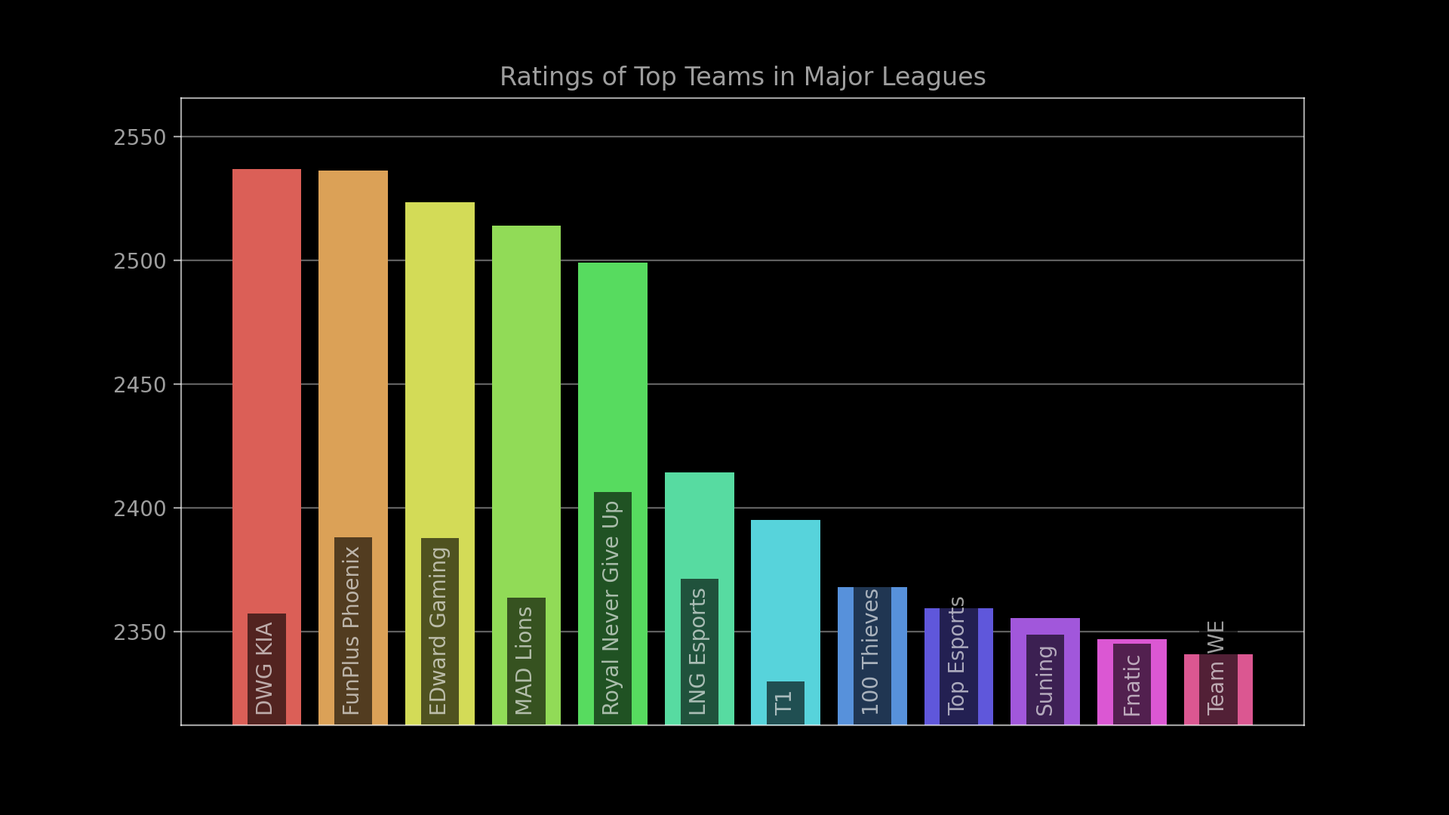
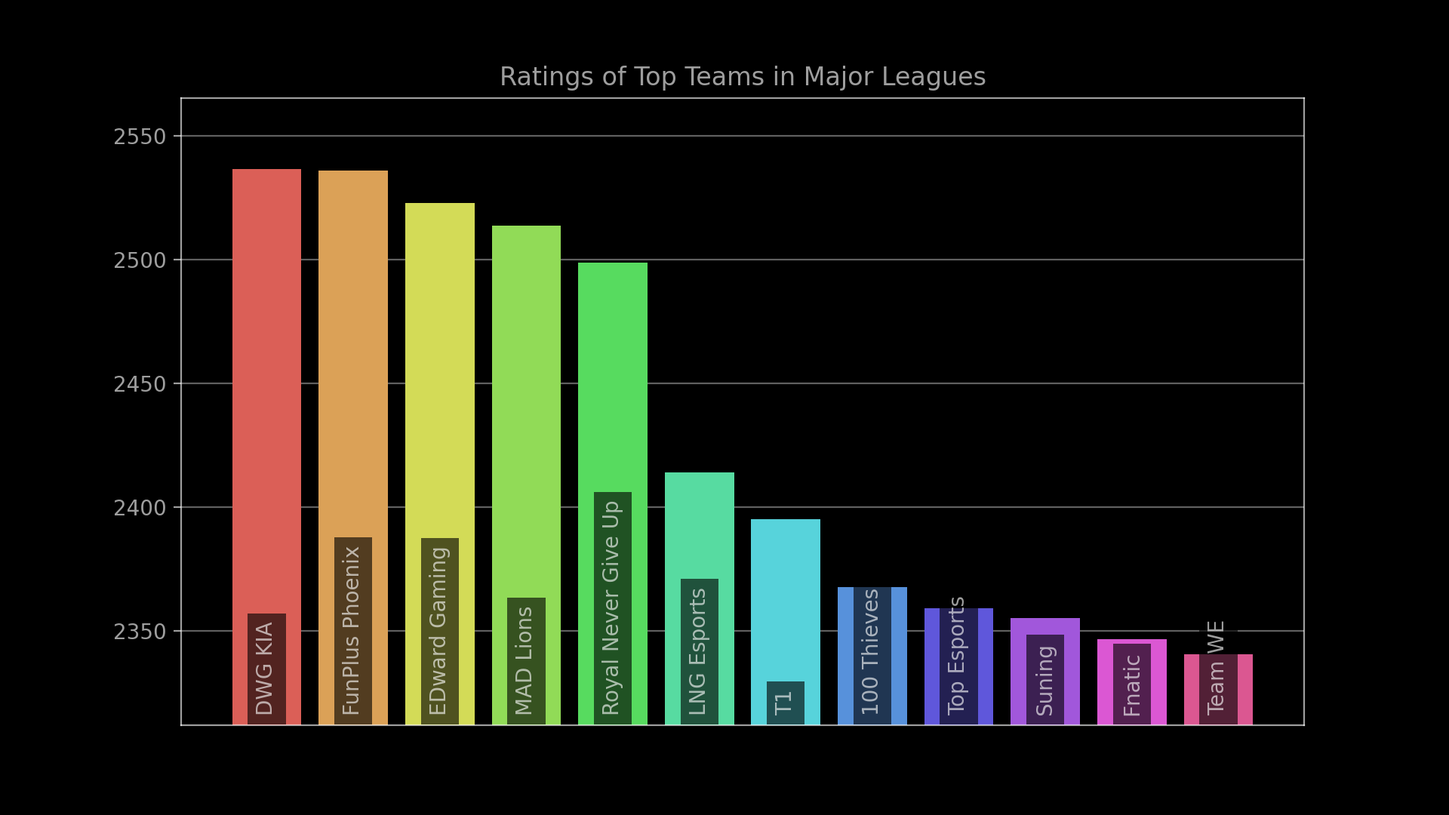
Update rating charts for 2021-09-15 20:00:00.

diff --git a/README.html b/README.html
@@ -75,46 +75,46 @@
             </tr>
             </thead>
             <tbody class="list">
-                <tr><td style="text-align: right">1</td><td class="name">DWG KIA</td><td class="league" style="text-align: center">LCK</td><td class="rating" style="text-align: center">2536.9</td></tr>
-            <tr><td style="text-align: right">2</td><td class="name">FunPlus Phoenix</td><td class="league" style="text-align: center">LPL</td><td class="rating" style="text-align: center">2536.3</td></tr>
-            <tr><td style="text-align: right">3</td><td class="name">EDward Gaming</td><td class="league" style="text-align: center">LPL</td><td class="rating" style="text-align: center">2523.2</td></tr>
+                <tr><td style="text-align: right">1</td><td class="name">DWG KIA</td><td class="league" style="text-align: center">LCK</td><td class="rating" style="text-align: center">2536.8</td></tr>
+            <tr><td style="text-align: right">2</td><td class="name">FunPlus Phoenix</td><td class="league" style="text-align: center">LPL</td><td class="rating" style="text-align: center">2536.2</td></tr>
+            <tr><td style="text-align: right">3</td><td class="name">EDward Gaming</td><td class="league" style="text-align: center">LPL</td><td class="rating" style="text-align: center">2523.1</td></tr>
             <tr><td style="text-align: right">4</td><td class="name">MAD Lions</td><td class="league" style="text-align: center">LEC</td><td class="rating" style="text-align: center">2513.9</td></tr>
-            <tr><td style="text-align: right">5</td><td class="name">PSG Talon</td><td class="league" style="text-align: center">PCS</td><td class="rating" style="text-align: center">2503.7</td></tr>
-            <tr><td style="text-align: right">6</td><td class="name">Royal Never Give Up</td><td class="league" style="text-align: center">LPL</td><td class="rating" style="text-align: center">2499.0</td></tr>
-            <tr><td style="text-align: right">7</td><td class="name">LNG Esports</td><td class="league" style="text-align: center">LPL</td><td class="rating" style="text-align: center">2414.1</td></tr>
-            <tr><td style="text-align: right">8</td><td class="name">Beyond Gaming</td><td class="league" style="text-align: center">PCS</td><td class="rating" style="text-align: center">2413.2</td></tr>
+            <tr><td style="text-align: right">5</td><td class="name">PSG Talon</td><td class="league" style="text-align: center">PCS</td><td class="rating" style="text-align: center">2503.6</td></tr>
+            <tr><td style="text-align: right">6</td><td class="name">Royal Never Give Up</td><td class="league" style="text-align: center">LPL</td><td class="rating" style="text-align: center">2498.8</td></tr>
+            <tr><td style="text-align: right">7</td><td class="name">LNG Esports</td><td class="league" style="text-align: center">LPL</td><td class="rating" style="text-align: center">2414.0</td></tr>
+            <tr><td style="text-align: right">8</td><td class="name">Beyond Gaming</td><td class="league" style="text-align: center">PCS</td><td class="rating" style="text-align: center">2413.1</td></tr>
             <tr><td style="text-align: right">9</td><td class="name">T1</td><td class="league" style="text-align: center">LCK</td><td class="rating" style="text-align: center">2395.1</td></tr>
             <tr><td style="text-align: right">10</td><td class="name">100 Thieves</td><td class="league" style="text-align: center">LCS</td><td class="rating" style="text-align: center">2367.7</td></tr>
-            <tr><td style="text-align: right">11</td><td class="name">Top Esports</td><td class="league" style="text-align: center">LPL</td><td class="rating" style="text-align: center">2359.4</td></tr>
-            <tr><td style="text-align: right">12</td><td class="name">Suning</td><td class="league" style="text-align: center">LPL</td><td class="rating" style="text-align: center">2355.4</td></tr>
-            <tr><td style="text-align: right">13</td><td class="name">Fnatic</td><td class="league" style="text-align: center">LEC</td><td class="rating" style="text-align: center">2346.8</td></tr>
-            <tr><td style="text-align: right">14</td><td class="name">Team WE</td><td class="league" style="text-align: center">LPL</td><td class="rating" style="text-align: center">2340.7</td></tr>
-            <tr><td style="text-align: right">15</td><td class="name">Hanwha Life Esports</td><td class="league" style="text-align: center">LCK</td><td class="rating" style="text-align: center">2333.0</td></tr>
-            <tr><td style="text-align: right">16</td><td class="name">Gen.G</td><td class="league" style="text-align: center">LCK</td><td class="rating" style="text-align: center">2330.1</td></tr>
-            <tr><td style="text-align: right">17</td><td class="name">Bilibili Gaming</td><td class="league" style="text-align: center">LPL</td><td class="rating" style="text-align: center">2319.5</td></tr>
-            <tr><td style="text-align: right">18</td><td class="name">Cloud9</td><td class="league" style="text-align: center">LCS</td><td class="rating" style="text-align: center">2319.2</td></tr>
-            <tr><td style="text-align: right">19</td><td class="name">G2 Esports</td><td class="league" style="text-align: center">LEC</td><td class="rating" style="text-align: center">2313.9</td></tr>
-            <tr><td style="text-align: right">20</td><td class="name">Rare Atom</td><td class="league" style="text-align: center">LPL</td><td class="rating" style="text-align: center">2313.6</td></tr>
+            <tr><td style="text-align: right">11</td><td class="name">Top Esports</td><td class="league" style="text-align: center">LPL</td><td class="rating" style="text-align: center">2359.3</td></tr>
+            <tr><td style="text-align: right">12</td><td class="name">Suning</td><td class="league" style="text-align: center">LPL</td><td class="rating" style="text-align: center">2355.3</td></tr>
+            <tr><td style="text-align: right">13</td><td class="name">Fnatic</td><td class="league" style="text-align: center">LEC</td><td class="rating" style="text-align: center">2346.7</td></tr>
+            <tr><td style="text-align: right">14</td><td class="name">Team WE</td><td class="league" style="text-align: center">LPL</td><td class="rating" style="text-align: center">2340.6</td></tr>
+            <tr><td style="text-align: right">15</td><td class="name">Hanwha Life Esports</td><td class="league" style="text-align: center">LCK</td><td class="rating" style="text-align: center">2332.9</td></tr>
+            <tr><td style="text-align: right">16</td><td class="name">Gen.G</td><td class="league" style="text-align: center">LCK</td><td class="rating" style="text-align: center">2330.0</td></tr>
+            <tr><td style="text-align: right">17</td><td class="name">Bilibili Gaming</td><td class="league" style="text-align: center">LPL</td><td class="rating" style="text-align: center">2319.4</td></tr>
+            <tr><td style="text-align: right">18</td><td class="name">Cloud9</td><td class="league" style="text-align: center">LCS</td><td class="rating" style="text-align: center">2319.1</td></tr>
+            <tr><td style="text-align: right">19</td><td class="name">G2 Esports</td><td class="league" style="text-align: center">LEC</td><td class="rating" style="text-align: center">2313.8</td></tr>
+            <tr><td style="text-align: right">20</td><td class="name">Rare Atom</td><td class="league" style="text-align: center">LPL</td><td class="rating" style="text-align: center">2313.5</td></tr>
             <tr><td style="text-align: right">21</td><td class="name">Unicorns Of Love.CIS</td><td class="league" style="text-align: center">LCL</td><td class="rating" style="text-align: center">2308.2</td></tr>
-            <tr><td style="text-align: right">22</td><td class="name">Afreeca Freecs</td><td class="league" style="text-align: center">LCK</td><td class="rating" style="text-align: center">2306.5</td></tr>
+            <tr><td style="text-align: right">22</td><td class="name">Afreeca Freecs</td><td class="league" style="text-align: center">LCK</td><td class="rating" style="text-align: center">2306.4</td></tr>
             <tr><td style="text-align: right">23</td><td class="name">CrowCrowd</td><td class="league" style="text-align: center">LCL</td><td class="rating" style="text-align: center">2303.6</td></tr>
             <tr><td style="text-align: right">24</td><td class="name">Team Liquid</td><td class="league" style="text-align: center">LCS</td><td class="rating" style="text-align: center">2302.1</td></tr>
-            <tr><td style="text-align: right">25</td><td class="name">TSM</td><td class="league" style="text-align: center">LCS</td><td class="rating" style="text-align: center">2290.5</td></tr>
-            <tr><td style="text-align: right">26</td><td class="name">Rogue (European Team)</td><td class="league" style="text-align: center">LEC</td><td class="rating" style="text-align: center">2288.2</td></tr>
-            <tr><td style="text-align: right">27</td><td class="name">Misfits Gaming</td><td class="league" style="text-align: center">LEC</td><td class="rating" style="text-align: center">2283.4</td></tr>
-            <tr><td style="text-align: right">28</td><td class="name">Nongshim RedForce</td><td class="league" style="text-align: center">LCK</td><td class="rating" style="text-align: center">2281.5</td></tr>
+            <tr><td style="text-align: right">25</td><td class="name">TSM</td><td class="league" style="text-align: center">LCS</td><td class="rating" style="text-align: center">2290.4</td></tr>
+            <tr><td style="text-align: right">26</td><td class="name">Rogue (European Team)</td><td class="league" style="text-align: center">LEC</td><td class="rating" style="text-align: center">2288.1</td></tr>
+            <tr><td style="text-align: right">27</td><td class="name">Misfits Gaming</td><td class="league" style="text-align: center">LEC</td><td class="rating" style="text-align: center">2283.3</td></tr>
+            <tr><td style="text-align: right">28</td><td class="name">Nongshim RedForce</td><td class="league" style="text-align: center">LCK</td><td class="rating" style="text-align: center">2281.4</td></tr>
             <tr><td style="text-align: right">29</td><td class="name">Evil Geniuses.NA</td><td class="league" style="text-align: center">LCS</td><td class="rating" style="text-align: center">2263.6</td></tr>
             <tr><td style="text-align: right">30</td><td class="name">Galatasaray Esports</td><td class="league" style="text-align: center">TCL</td><td class="rating" style="text-align: center">2262.0</td></tr>
-            <tr><td style="text-align: right">31</td><td class="name">Liiv SANDBOX</td><td class="league" style="text-align: center">LCK</td><td class="rating" style="text-align: center">2252.4</td></tr>
-            <tr><td style="text-align: right">32</td><td class="name">PEACE (Oceanic Team)</td><td class="league" style="text-align: center">LCO</td><td class="rating" style="text-align: center">2249.8</td></tr>
+            <tr><td style="text-align: right">31</td><td class="name">Liiv SANDBOX</td><td class="league" style="text-align: center">LCK</td><td class="rating" style="text-align: center">2252.3</td></tr>
+            <tr><td style="text-align: right">32</td><td class="name">PEACE (Oceanic Team)</td><td class="league" style="text-align: center">LCO</td><td class="rating" style="text-align: center">2249.7</td></tr>
             <tr><td style="text-align: right">33</td><td class="name">KT Rolster</td><td class="league" style="text-align: center">LCK</td><td class="rating" style="text-align: center">2248.1</td></tr>
-            <tr><td style="text-align: right">34</td><td class="name">JD Gaming</td><td class="league" style="text-align: center">LPL</td><td class="rating" style="text-align: center">2247.9</td></tr>
-            <tr><td style="text-align: right">35</td><td class="name">Oh My God</td><td class="league" style="text-align: center">LPL</td><td class="rating" style="text-align: center">2225.6</td></tr>
+            <tr><td style="text-align: right">34</td><td class="name">JD Gaming</td><td class="league" style="text-align: center">LPL</td><td class="rating" style="text-align: center">2247.8</td></tr>
+            <tr><td style="text-align: right">35</td><td class="name">Oh My God</td><td class="league" style="text-align: center">LPL</td><td class="rating" style="text-align: center">2225.4</td></tr>
             <tr><td style="text-align: right">36</td><td class="name">Pentanet.GG</td><td class="league" style="text-align: center">LCO</td><td class="rating" style="text-align: center">2224.6</td></tr>
-            <tr><td style="text-align: right">37</td><td class="name">Fredit BRION</td><td class="league" style="text-align: center">LCK</td><td class="rating" style="text-align: center">2214.0</td></tr>
-            <tr><td style="text-align: right">38</td><td class="name">Invictus Gaming</td><td class="league" style="text-align: center">LPL</td><td class="rating" style="text-align: center">2213.7</td></tr>
-            <tr><td style="text-align: right">39</td><td class="name">LGD Gaming</td><td class="league" style="text-align: center">LPL</td><td class="rating" style="text-align: center">2200.8</td></tr>
-            <tr><td style="text-align: right">40</td><td class="name">Rogue Warriors</td><td class="league" style="text-align: center">LPL</td><td class="rating" style="text-align: center">2193.0</td></tr>
+            <tr><td style="text-align: right">37</td><td class="name">Fredit BRION</td><td class="league" style="text-align: center">LCK</td><td class="rating" style="text-align: center">2213.9</td></tr>
+            <tr><td style="text-align: right">38</td><td class="name">Invictus Gaming</td><td class="league" style="text-align: center">LPL</td><td class="rating" style="text-align: center">2213.6</td></tr>
+            <tr><td style="text-align: right">39</td><td class="name">LGD Gaming</td><td class="league" style="text-align: center">LPL</td><td class="rating" style="text-align: center">2200.7</td></tr>
+            <tr><td style="text-align: right">40</td><td class="name">Rogue Warriors</td><td class="league" style="text-align: center">LPL</td><td class="rating" style="text-align: center">2192.9</td></tr>
             <tr><td style="text-align: right">41</td><td class="name">One Breath Gaming</td><td class="league" style="text-align: center">LCL</td><td class="rating" style="text-align: center">2192.0</td></tr>
             <tr><td style="text-align: right">42</td><td class="name">Immortals</td><td class="league" style="text-align: center">LCS</td><td class="rating" style="text-align: center">2186.4</td></tr>
             <tr><td style="text-align: right">43</td><td class="name">DetonatioN FocusMe</td><td class="league" style="text-align: center">LJL</td><td class="rating" style="text-align: center">2180.9</td></tr>
@@ -122,22 +122,22 @@
             <tr><td style="text-align: right">45</td><td class="name">GAM Esports</td><td class="league" style="text-align: center">VCS</td><td class="rating" style="text-align: center">2169.9</td></tr>
             <tr><td style="text-align: right">46</td><td class="name">RED Canids</td><td class="league" style="text-align: center">CBLOL</td><td class="rating" style="text-align: center">2169.0</td></tr>
             <tr><td style="text-align: right">47</td><td class="name">paiN Gaming</td><td class="league" style="text-align: center">CBLOL</td><td class="rating" style="text-align: center">2157.7</td></tr>
-            <tr><td style="text-align: right">48</td><td class="name">Excel Esports</td><td class="league" style="text-align: center">LEC</td><td class="rating" style="text-align: center">2151.8</td></tr>
-            <tr><td style="text-align: right">49</td><td class="name">Dire Wolves</td><td class="league" style="text-align: center">LCO</td><td class="rating" style="text-align: center">2140.4</td></tr>
-            <tr><td style="text-align: right">50</td><td class="name">Astralis</td><td class="league" style="text-align: center">LEC</td><td class="rating" style="text-align: center">2140.0</td></tr>
-            <tr><td style="text-align: right">51</td><td class="name">Ultra Prime</td><td class="league" style="text-align: center">LPL</td><td class="rating" style="text-align: center">2137.5</td></tr>
+            <tr><td style="text-align: right">48</td><td class="name">Excel Esports</td><td class="league" style="text-align: center">LEC</td><td class="rating" style="text-align: center">2151.7</td></tr>
+            <tr><td style="text-align: right">49</td><td class="name">Dire Wolves</td><td class="league" style="text-align: center">LCO</td><td class="rating" style="text-align: center">2140.3</td></tr>
+            <tr><td style="text-align: right">50</td><td class="name">Astralis</td><td class="league" style="text-align: center">LEC</td><td class="rating" style="text-align: center">2139.9</td></tr>
+            <tr><td style="text-align: right">51</td><td class="name">Ultra Prime</td><td class="league" style="text-align: center">LPL</td><td class="rating" style="text-align: center">2137.3</td></tr>
             <tr><td style="text-align: right">52</td><td class="name">Machi Esports</td><td class="league" style="text-align: center">PCS</td><td class="rating" style="text-align: center">2127.8</td></tr>
-            <tr><td style="text-align: right">53</td><td class="name">Dignitas</td><td class="league" style="text-align: center">LCS</td><td class="rating" style="text-align: center">2118.6</td></tr>
+            <tr><td style="text-align: right">53</td><td class="name">Dignitas</td><td class="league" style="text-align: center">LCS</td><td class="rating" style="text-align: center">2118.5</td></tr>
             <tr><td style="text-align: right">54</td><td class="name">Infinity Esports (Latin American Team)</td><td class="league" style="text-align: center">LLA</td><td class="rating" style="text-align: center">2113.8</td></tr>
             <tr><td style="text-align: right">55</td><td class="name">Rensga Esports</td><td class="league" style="text-align: center">CBLOL</td><td class="rating" style="text-align: center">2102.4</td></tr>
-            <tr><td style="text-align: right">56</td><td class="name">Chiefs Esports Club</td><td class="league" style="text-align: center">LCO</td><td class="rating" style="text-align: center">2101.3</td></tr>
+            <tr><td style="text-align: right">56</td><td class="name">Chiefs Esports Club</td><td class="league" style="text-align: center">LCO</td><td class="rating" style="text-align: center">2101.2</td></tr>
             <tr><td style="text-align: right">57</td><td class="name">SK Gaming</td><td class="league" style="text-align: center">LEC</td><td class="rating" style="text-align: center">2094.7</td></tr>
             <tr><td style="text-align: right">58</td><td class="name">ORDER</td><td class="league" style="text-align: center">LCO</td><td class="rating" style="text-align: center">2084.7</td></tr>
             <tr><td style="text-align: right">59</td><td class="name">DRX</td><td class="league" style="text-align: center">LCK</td><td class="rating" style="text-align: center">2082.8</td></tr>
             <tr><td style="text-align: right">60</td><td class="name">NASR eSports Turkey</td><td class="league" style="text-align: center">TCL</td><td class="rating" style="text-align: center">2081.8</td></tr>
             <tr><td style="text-align: right">61</td><td class="name">Golden Guardians</td><td class="league" style="text-align: center">LCS</td><td class="rating" style="text-align: center">2078.0</td></tr>
             <tr><td style="text-align: right">62</td><td class="name">J Team</td><td class="league" style="text-align: center">PCS</td><td class="rating" style="text-align: center">2074.6</td></tr>
-            <tr><td style="text-align: right">63</td><td class="name">ThunderTalk Gaming</td><td class="league" style="text-align: center">LPL</td><td class="rating" style="text-align: center">2071.6</td></tr>
+            <tr><td style="text-align: right">63</td><td class="name">ThunderTalk Gaming</td><td class="league" style="text-align: center">LPL</td><td class="rating" style="text-align: center">2071.5</td></tr>
             <tr><td style="text-align: right">64</td><td class="name">Vorax Liberty</td><td class="league" style="text-align: center">CBLOL</td><td class="rating" style="text-align: center">2057.5</td></tr>
             <tr><td style="text-align: right">65</td><td class="name">FlyQuest</td><td class="league" style="text-align: center">LCS</td><td class="rating" style="text-align: center">2043.1</td></tr>
             <tr><td style="text-align: right">66</td><td class="name">Estral Esports</td><td class="league" style="text-align: center">LLA</td><td class="rating" style="text-align: center">2037.0</td></tr>
@@ -145,52 +145,53 @@
             <tr><td style="text-align: right">68</td><td class="name">Istanbul Wildcats</td><td class="league" style="text-align: center">TCL</td><td class="rating" style="text-align: center">2026.2</td></tr>
             <tr><td style="text-align: right">69</td><td class="name">SuperMassive Blaze</td><td class="league" style="text-align: center">TCL</td><td class="rating" style="text-align: center">2024.5</td></tr>
             <tr><td style="text-align: right">70</td><td class="name">Galakticos</td><td class="league" style="text-align: center">TCL</td><td class="rating" style="text-align: center">2012.4</td></tr>
-            <tr><td style="text-align: right">71</td><td class="name">Counter Logic Gaming</td><td class="league" style="text-align: center">LCS</td><td class="rating" style="text-align: center">2005.7</td></tr>
+            <tr><td style="text-align: right">71</td><td class="name">Counter Logic Gaming</td><td class="league" style="text-align: center">LCS</td><td class="rating" style="text-align: center">2005.6</td></tr>
             <tr><td style="text-align: right">72</td><td class="name">Rascal Jester</td><td class="league" style="text-align: center">LJL</td><td class="rating" style="text-align: center">2003.8</td></tr>
             <tr><td style="text-align: right">73</td><td class="name">BOOM Esports</td><td class="league" style="text-align: center">PCS</td><td class="rating" style="text-align: center">2001.7</td></tr>
             <tr><td style="text-align: right">74</td><td class="name">Beşiktaş Esports</td><td class="league" style="text-align: center">TCL</td><td class="rating" style="text-align: center">2001.4</td></tr>
             <tr><td style="text-align: right">75</td><td class="name">Saigon Buffalo</td><td class="league" style="text-align: center">VCS</td><td class="rating" style="text-align: center">1994.1</td></tr>
-            <tr><td style="text-align: right">76</td><td class="name">1907 Fenerbahçe Esports</td><td class="league" style="text-align: center">TCL</td><td class="rating" style="text-align: center">1987.3</td></tr>
+            <tr><td style="text-align: right">76</td><td class="name">1907 Fenerbahçe Esports</td><td class="league" style="text-align: center">TCL</td><td class="rating" style="text-align: center">1987.2</td></tr>
             <tr><td style="text-align: right">77</td><td class="name">Dark Passage</td><td class="league" style="text-align: center">TCL</td><td class="rating" style="text-align: center">1986.9</td></tr>
             <tr><td style="text-align: right">78</td><td class="name">Flamengo Esports</td><td class="league" style="text-align: center">CBLOL</td><td class="rating" style="text-align: center">1977.4</td></tr>
             <tr><td style="text-align: right">79</td><td class="name">LOUD</td><td class="league" style="text-align: center">CBLOL</td><td class="rating" style="text-align: center">1947.4</td></tr>
-            <tr><td style="text-align: right">80</td><td class="name">Victory Five</td><td class="league" style="text-align: center">LPL</td><td class="rating" style="text-align: center">1944.6</td></tr>
-            <tr><td style="text-align: right">81</td><td class="name">XTEN Esports</td><td class="league" style="text-align: center">LLA</td><td class="rating" style="text-align: center">1944.2</td></tr>
+            <tr><td style="text-align: right">80</td><td class="name">Victory Five</td><td class="league" style="text-align: center">LPL</td><td class="rating" style="text-align: center">1944.5</td></tr>
+            <tr><td style="text-align: right">81</td><td class="name">XTEN Esports</td><td class="league" style="text-align: center">LLA</td><td class="rating" style="text-align: center">1943.9</td></tr>
             <tr><td style="text-align: right">82</td><td class="name">AXIZ</td><td class="league" style="text-align: center">LJL</td><td class="rating" style="text-align: center">1936.5</td></tr>
-            <tr><td style="text-align: right">83</td><td class="name">Black Star Gaming</td><td class="league" style="text-align: center">LCL</td><td class="rating" style="text-align: center">1933.3</td></tr>
+            <tr><td style="text-align: right">83</td><td class="name">Black Star Gaming</td><td class="league" style="text-align: center">LCL</td><td class="rating" style="text-align: center">1933.2</td></tr>
             <tr><td style="text-align: right">84</td><td class="name">5 Ronin</td><td class="league" style="text-align: center">TCL</td><td class="rating" style="text-align: center">1932.7</td></tr>
             <tr><td style="text-align: right">85</td><td class="name">Rainbow7</td><td class="league" style="text-align: center">LLA</td><td class="rating" style="text-align: center">1927.6</td></tr>
-            <tr><td style="text-align: right">86</td><td class="name">Furious Gaming</td><td class="league" style="text-align: center">LLA</td><td class="rating" style="text-align: center">1921.0</td></tr>
+            <tr><td style="text-align: right">86</td><td class="name">Furious Gaming</td><td class="league" style="text-align: center">LLA</td><td class="rating" style="text-align: center">1920.5</td></tr>
             <tr><td style="text-align: right">87</td><td class="name">CERBERUS Esports (Vietnamese Team)</td><td class="league" style="text-align: center">VCS</td><td class="rating" style="text-align: center">1909.5</td></tr>
             <tr><td style="text-align: right">88</td><td class="name">Team Secret (Vietnamese Team)</td><td class="league" style="text-align: center">VCS</td><td class="rating" style="text-align: center">1896.4</td></tr>
             <tr><td style="text-align: right">89</td><td class="name">Legacy Esports</td><td class="league" style="text-align: center">LCO</td><td class="rating" style="text-align: center">1891.1</td></tr>
-            <tr><td style="text-align: right">90</td><td class="name">Isurus</td><td class="league" style="text-align: center">LLA</td><td class="rating" style="text-align: center">1891.0</td></tr>
+            <tr><td style="text-align: right">90</td><td class="name">Isurus</td><td class="league" style="text-align: center">LLA</td><td class="rating" style="text-align: center">1890.9</td></tr>
             <tr><td style="text-align: right">91</td><td class="name">KaBuM! e-Sports</td><td class="league" style="text-align: center">CBLOL</td><td class="rating" style="text-align: center">1890.3</td></tr>
             <tr><td style="text-align: right">92</td><td class="name">Vega Squadron</td><td class="league" style="text-align: center">LCL</td><td class="rating" style="text-align: center">1882.6</td></tr>
             <tr><td style="text-align: right">93</td><td class="name">Hong Kong Attitude</td><td class="league" style="text-align: center">PCS</td><td class="rating" style="text-align: center">1881.7</td></tr>
             <tr><td style="text-align: right">94</td><td class="name">V3 Esports</td><td class="league" style="text-align: center">LJL</td><td class="rating" style="text-align: center">1857.0</td></tr>
-            <tr><td style="text-align: right">95</td><td class="name">Gravitas</td><td class="league" style="text-align: center">LCO</td><td class="rating" style="text-align: center">1853.7</td></tr>
+            <tr><td style="text-align: right">95</td><td class="name">Gravitas</td><td class="league" style="text-align: center">LCO</td><td class="rating" style="text-align: center">1853.6</td></tr>
             <tr><td style="text-align: right">96</td><td class="name">Dragon Army</td><td class="league" style="text-align: center">LCL</td><td class="rating" style="text-align: center">1835.4</td></tr>
-            <tr><td style="text-align: right">97</td><td class="name">Luxury Esports</td><td class="league" style="text-align: center">VCS</td><td class="rating" style="text-align: center">1833.7</td></tr>
+            <tr><td style="text-align: right">97</td><td class="name">Luxury Esports</td><td class="league" style="text-align: center">VCS</td><td class="rating" style="text-align: center">1833.6</td></tr>
             <tr><td style="text-align: right">98</td><td class="name">Netshoes Miners</td><td class="league" style="text-align: center">CBLOL</td><td class="rating" style="text-align: center">1829.0</td></tr>
             <tr><td style="text-align: right">99</td><td class="name">SBTC Esports</td><td class="league" style="text-align: center">VCS</td><td class="rating" style="text-align: center">1828.8</td></tr>
-            <tr><td style="text-align: right">100</td><td class="name">Team Flash.Vietnam</td><td class="league" style="text-align: center">VCS</td><td class="rating" style="text-align: center">1816.3</td></tr>
+            <tr><td style="text-align: right">100</td><td class="name">Team Flash.Vietnam</td><td class="league" style="text-align: center">VCS</td><td class="rating" style="text-align: center">1816.2</td></tr>
             <tr><td style="text-align: right">101</td><td class="name">INTZ</td><td class="league" style="text-align: center">CBLOL</td><td class="rating" style="text-align: center">1783.7</td></tr>
             <tr><td style="text-align: right">102</td><td class="name">Sengoku Gaming</td><td class="league" style="text-align: center">LJL</td><td class="rating" style="text-align: center">1776.1</td></tr>
             <tr><td style="text-align: right">103</td><td class="name">RoX (2014 CIS Team)</td><td class="league" style="text-align: center">LCL</td><td class="rating" style="text-align: center">1766.9</td></tr>
-            <tr><td style="text-align: right">104</td><td class="name">FURIA Esports</td><td class="league" style="text-align: center">CBLOL</td><td class="rating" style="text-align: center">1749.3</td></tr>
-            <tr><td style="text-align: right">105</td><td class="name">Berjaya Dragons</td><td class="league" style="text-align: center">PCS</td><td class="rating" style="text-align: center">1746.0</td></tr>
-            <tr><td style="text-align: right">106</td><td class="name">All Knights</td><td class="league" style="text-align: center">LLA</td><td class="rating" style="text-align: center">1739.2</td></tr>
-            <tr><td style="text-align: right">107</td><td class="name">Burst The Sky Esports</td><td class="league" style="text-align: center">VCS</td><td class="rating" style="text-align: center">1738.8</td></tr>
-            <tr><td style="text-align: right">108</td><td class="name">Crest Gaming Act</td><td class="league" style="text-align: center">LJL</td><td class="rating" style="text-align: center">1734.7</td></tr>
-            <tr><td style="text-align: right">109</td><td class="name">MAMMOTH</td><td class="league" style="text-align: center">LCO</td><td class="rating" style="text-align: center">1734.0</td></tr>
-            <tr><td style="text-align: right">110</td><td class="name">Kaos Latin Gamers</td><td class="league" style="text-align: center">LLA</td><td class="rating" style="text-align: center">1704.8</td></tr>
-            <tr><td style="text-align: right">111</td><td class="name">Liyab Esports</td><td class="league" style="text-align: center">PCS</td><td class="rating" style="text-align: center">1703.7</td></tr>
-            <tr><td style="text-align: right">112</td><td class="name">Impunity</td><td class="league" style="text-align: center">PCS</td><td class="rating" style="text-align: center">1657.8</td></tr>
-            <tr><td style="text-align: right">113</td><td class="name">CTRL PLAY</td><td class="league" style="text-align: center">LCL</td><td class="rating" style="text-align: center">1622.7</td></tr>
-            <tr><td style="text-align: right">114</td><td class="name">Burning Core</td><td class="league" style="text-align: center">LJL</td><td class="rating" style="text-align: center">1540.8</td></tr>
-            <tr><td style="text-align: right">115</td><td class="name">Alpha Esports</td><td class="league" style="text-align: center">PCS</td><td class="rating" style="text-align: center">1530.7</td></tr>
-            <tr><td style="text-align: right">116</td><td class="name">Team AURORA</td><td class="league" style="text-align: center">TCL</td><td class="rating" style="text-align: center">1488.4</td></tr>
+            <tr><td style="text-align: right">104</td><td class="name">Fukuoka SoftBank HAWKS gaming</td><td class="league" style="text-align: center">LJL</td><td class="rating" style="text-align: center">1758.5</td></tr>
+            <tr><td style="text-align: right">105</td><td class="name">FURIA Esports</td><td class="league" style="text-align: center">CBLOL</td><td class="rating" style="text-align: center">1749.3</td></tr>
+            <tr><td style="text-align: right">106</td><td class="name">Berjaya Dragons</td><td class="league" style="text-align: center">PCS</td><td class="rating" style="text-align: center">1746.0</td></tr>
+            <tr><td style="text-align: right">107</td><td class="name">All Knights</td><td class="league" style="text-align: center">LLA</td><td class="rating" style="text-align: center">1739.2</td></tr>
+            <tr><td style="text-align: right">108</td><td class="name">Burst The Sky Esports</td><td class="league" style="text-align: center">VCS</td><td class="rating" style="text-align: center">1738.8</td></tr>
+            <tr><td style="text-align: right">109</td><td class="name">Crest Gaming Act</td><td class="league" style="text-align: center">LJL</td><td class="rating" style="text-align: center">1734.7</td></tr>
+            <tr><td style="text-align: right">110</td><td class="name">MAMMOTH</td><td class="league" style="text-align: center">LCO</td><td class="rating" style="text-align: center">1734.0</td></tr>
+            <tr><td style="text-align: right">111</td><td class="name">Kaos Latin Gamers</td><td class="league" style="text-align: center">LLA</td><td class="rating" style="text-align: center">1704.0</td></tr>
+            <tr><td style="text-align: right">112</td><td class="name">Liyab Esports</td><td class="league" style="text-align: center">PCS</td><td class="rating" style="text-align: center">1703.6</td></tr>
+            <tr><td style="text-align: right">113</td><td class="name">Impunity</td><td class="league" style="text-align: center">PCS</td><td class="rating" style="text-align: center">1657.8</td></tr>
+            <tr><td style="text-align: right">114</td><td class="name">CTRL PLAY</td><td class="league" style="text-align: center">LCL</td><td class="rating" style="text-align: center">1622.7</td></tr>
+            <tr><td style="text-align: right">115</td><td class="name">Burning Core</td><td class="league" style="text-align: center">LJL</td><td class="rating" style="text-align: center">1540.8</td></tr>
+            <tr><td style="text-align: right">116</td><td class="name">Alpha Esports</td><td class="league" style="text-align: center">PCS</td><td class="rating" style="text-align: center">1530.7</td></tr>
+            <tr><td style="text-align: right">117</td><td class="name">Team AURORA</td><td class="league" style="text-align: center">TCL</td><td class="rating" style="text-align: center">1488.3</td></tr>
             </tbody>
         </table>
     </div>

diff --git a/assets/js/chart-config.js b/assets/js/chart-config.js
@@ -5,7 +5,7 @@ const topChartConfig = {
         datasets: [{
             label: "Rating Points",
             backgroundColor: ['#dc5f57', '#dca157', '#d4dc57', '#91dc57', '#57dc5f', '#57dca1', '#57d4dc', '#5791dc', '#5f57dc', '#a157dc', '#dc57d4', '#dc5791'],
-            data: [2536.9, 2536.3, 2523.2, 2513.9, 2499.0, 2414.1, 2395.1, 2367.7, 2359.4, 2355.4, 2346.8, 2340.7],
+            data: [2536.8, 2536.2, 2523.1, 2513.9, 2498.8, 2414.0, 2395.1, 2367.7, 2359.3, 2355.3, 2346.7, 2340.6],
         }]
     },
     options: {
@@ -25,7 +25,7 @@ const topChartConfig = {
             },
             y: {
                 min: 2312,
-                max: 2566
+                max: 2565
             }
         }
     }

diff --git a/README.md b/README.md
@@ -45,53 +45,53 @@ confidence interval of the rating.
 
 | | Team | Rating | RD |
 | --: | --- | :-: | :-: |
-| 1 | DWG KIA | 2536.9 | 73.7 |
-| 2 | FunPlus Phoenix | 2536.3 | 74.2 |
-| 3 | EDward Gaming | 2523.2 | 68.3 |
+| 1 | DWG KIA | 2536.8 | 73.7 |
+| 2 | FunPlus Phoenix | 2536.2 | 74.2 |
+| 3 | EDward Gaming | 2523.1 | 68.3 |
 | 4 | MAD Lions | 2513.9 | 78.1 |
-| 5 | Royal Never Give Up | 2499.0 | 78.8 |
-| 6 | LNG Esports | 2414.1 | 63.6 |
+| 5 | Royal Never Give Up | 2498.8 | 78.8 |
+| 6 | LNG Esports | 2414.0 | 63.6 |
 | 7 | T1 | 2395.1 | 65.9 |
 | 8 | 100 Thieves | 2367.7 | 68.7 |
-| 9 | Top Esports | 2359.4 | 71.2 |
-| 10 | Suning | 2355.4 | 69.8 |
-| 11 | Fnatic | 2346.8 | 67.0 |
-| 12 | Team WE | 2340.7 | 61.8 |
-| 13 | Hanwha Life Esports | 2333.0 | 66.5 |
-| 14 | Gen.G | 2330.1 | 69.0 |
-| 15 | Bilibili Gaming | 2319.5 | 73.6 |
-| 16 | Cloud9 | 2319.2 | 67.4 |
-| 17 | G2 Esports | 2313.9 | 79.1 |
-| 18 | Rare Atom | 2313.6 | 77.3 |
-| 19 | Afreeca Freecs | 2306.5 | 67.7 |
+| 9 | Top Esports | 2359.3 | 71.2 |
+| 10 | Suning | 2355.3 | 69.8 |
+| 11 | Fnatic | 2346.7 | 67.0 |
+| 12 | Team WE | 2340.6 | 61.8 |
+| 13 | Hanwha Life Esports | 2332.9 | 66.5 |
+| 14 | Gen.G | 2330.0 | 69.0 |
+| 15 | Bilibili Gaming | 2319.4 | 73.6 |
+| 16 | Cloud9 | 2319.1 | 67.4 |
+| 17 | G2 Esports | 2313.8 | 79.1 |
+| 18 | Rare Atom | 2313.5 | 77.3 |
+| 19 | Afreeca Freecs | 2306.4 | 67.7 |
 | 20 | Team Liquid | 2302.1 | 71.5 |
-| 21 | TSM | 2290.5 | 69.9 |
-| 22 | Rogue (European Team) | 2288.2 | 80.1 |
-| 23 | Misfits Gaming | 2283.4 | 77.4 |
-| 24 | Nongshim RedForce | 2281.5 | 71.4 |
+| 21 | TSM | 2290.4 | 69.9 |
+| 22 | Rogue (European Team) | 2288.1 | 80.1 |
+| 23 | Misfits Gaming | 2283.3 | 77.4 |
+| 24 | Nongshim RedForce | 2281.4 | 71.4 |
 | 25 | Evil Geniuses.NA | 2263.6 | 72.2 |
-| 26 | Liiv SANDBOX | 2252.4 | 71.9 |
+| 26 | Liiv SANDBOX | 2252.3 | 71.9 |
 | 27 | KT Rolster | 2248.1 | 69.8 |
-| 28 | JD Gaming | 2247.9 | 75.8 |
-| 29 | Oh My God | 2225.6 | 76.1 |
-| 30 | Fredit BRION | 2214.0 | 70.4 |
-| 31 | Invictus Gaming | 2213.7 | 74.1 |
-| 32 | LGD Gaming | 2200.8 | 77.6 |
-| 33 | Rogue Warriors | 2193.0 | 80.6 |
+| 28 | JD Gaming | 2247.8 | 75.8 |
+| 29 | Oh My God | 2225.4 | 76.1 |
+| 30 | Fredit BRION | 2213.9 | 70.4 |
+| 31 | Invictus Gaming | 2213.6 | 74.1 |
+| 32 | LGD Gaming | 2200.7 | 77.6 |
+| 33 | Rogue Warriors | 2192.9 | 80.6 |
 | 34 | Immortals | 2186.4 | 78.1 |
 | 35 | Team Vitality | 2170.9 | 85.7 |
-| 36 | Excel Esports | 2151.8 | 91.9 |
-| 37 | Astralis | 2140.0 | 90.9 |
-| 38 | Ultra Prime | 2137.5 | 78.0 |
-| 39 | Dignitas | 2118.6 | 75.6 |
+| 36 | Excel Esports | 2151.7 | 91.9 |
+| 37 | Astralis | 2139.9 | 90.9 |
+| 38 | Ultra Prime | 2137.3 | 78.0 |
+| 39 | Dignitas | 2118.5 | 75.6 |
 | 40 | SK Gaming | 2094.7 | 93.9 |
 | 41 | DRX | 2082.8 | 75.2 |
 | 42 | Golden Guardians | 2078.0 | 85.7 |
-| 43 | ThunderTalk Gaming | 2071.6 | 77.9 |
+| 43 | ThunderTalk Gaming | 2071.5 | 77.9 |
 | 44 | FlyQuest | 2043.1 | 82.8 |
 | 45 | FC Schalke 04 Esports | 2036.2 | 89.9 |
-| 46 | Counter Logic Gaming | 2005.7 | 86.6 |
-| 47 | Victory Five | 1944.6 | 86.8 |
+| 46 | Counter Logic Gaming | 2005.6 | 86.6 |
+| 47 | Victory Five | 1944.5 | 86.8 |
 
 About the Rating System
 -----------------------
